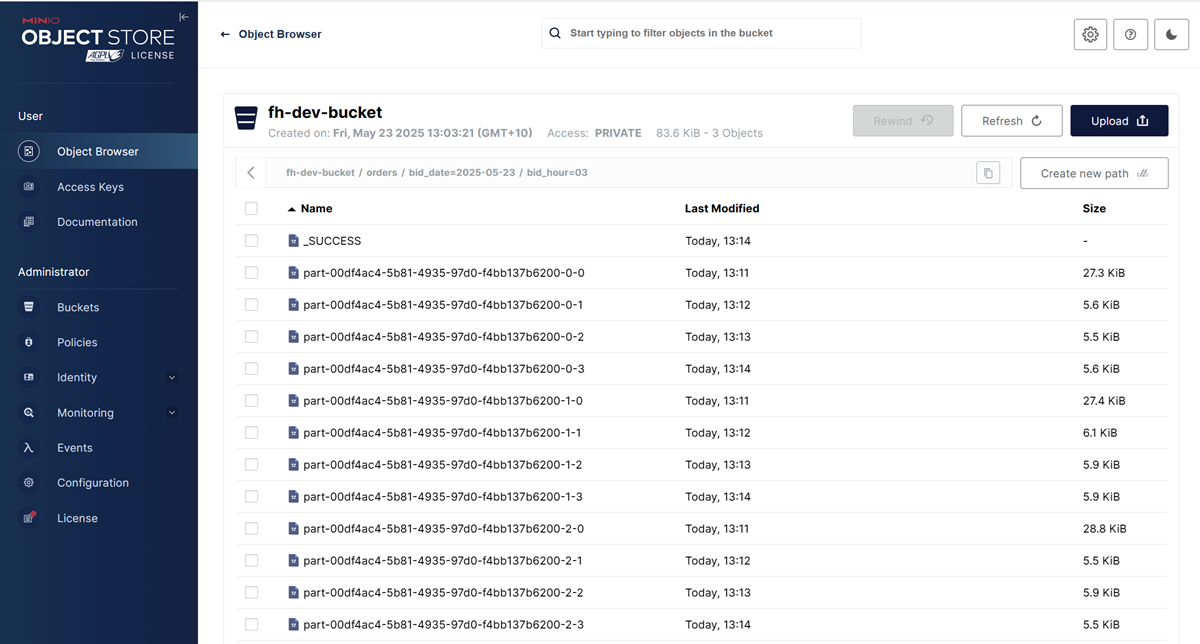
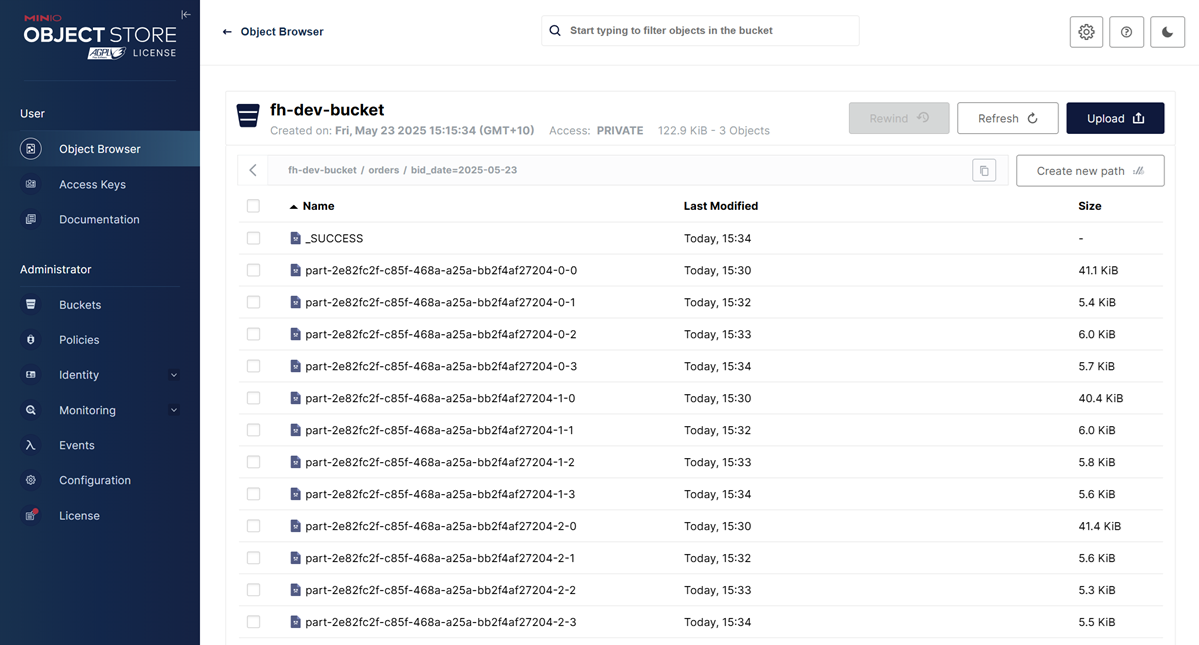
partiton by date only

diff --git a/fh-local-flink-sql-orders-parquet/README.md b/fh-local-flink-sql-orders-parquet/README.md
@@ -107,7 +107,7 @@ CREATE TABLE orders_sink(
     price        DECIMAL(10, 2),
     supplier     STRING,
     bid_ts       TIMESTAMP(3)
-) PARTITIONED BY (bid_date, bid_hour) WITH (
+) PARTITIONED BY (bid_date) WITH (
     'connector' = 'filesystem',
     'path' = 's3a://fh-dev-bucket/orders/',
     'format' = 'parquet',
